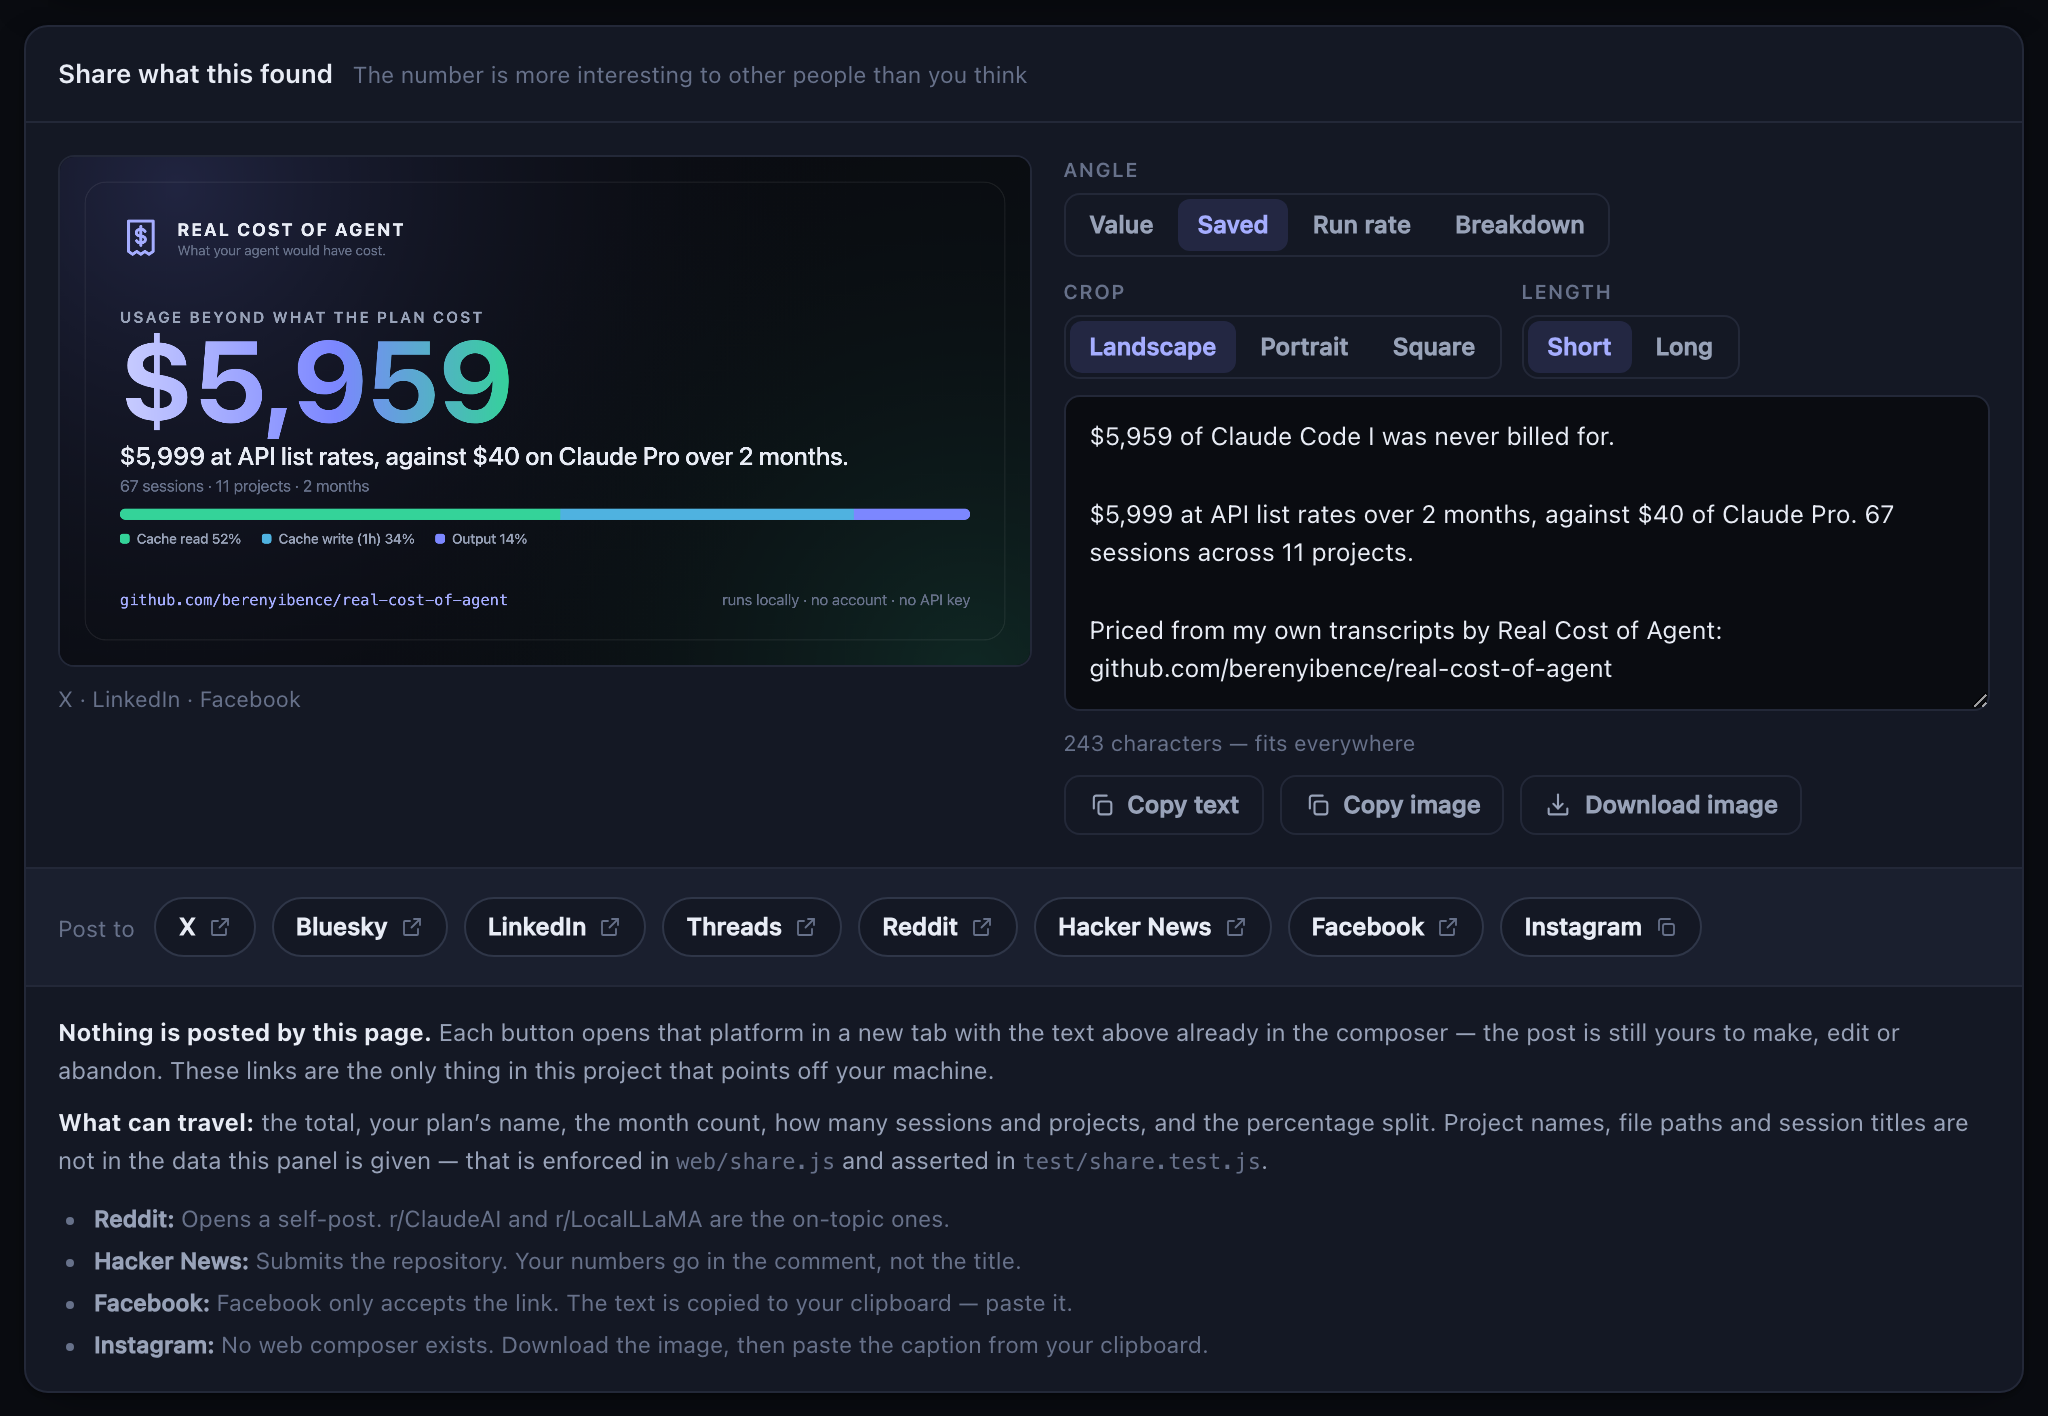
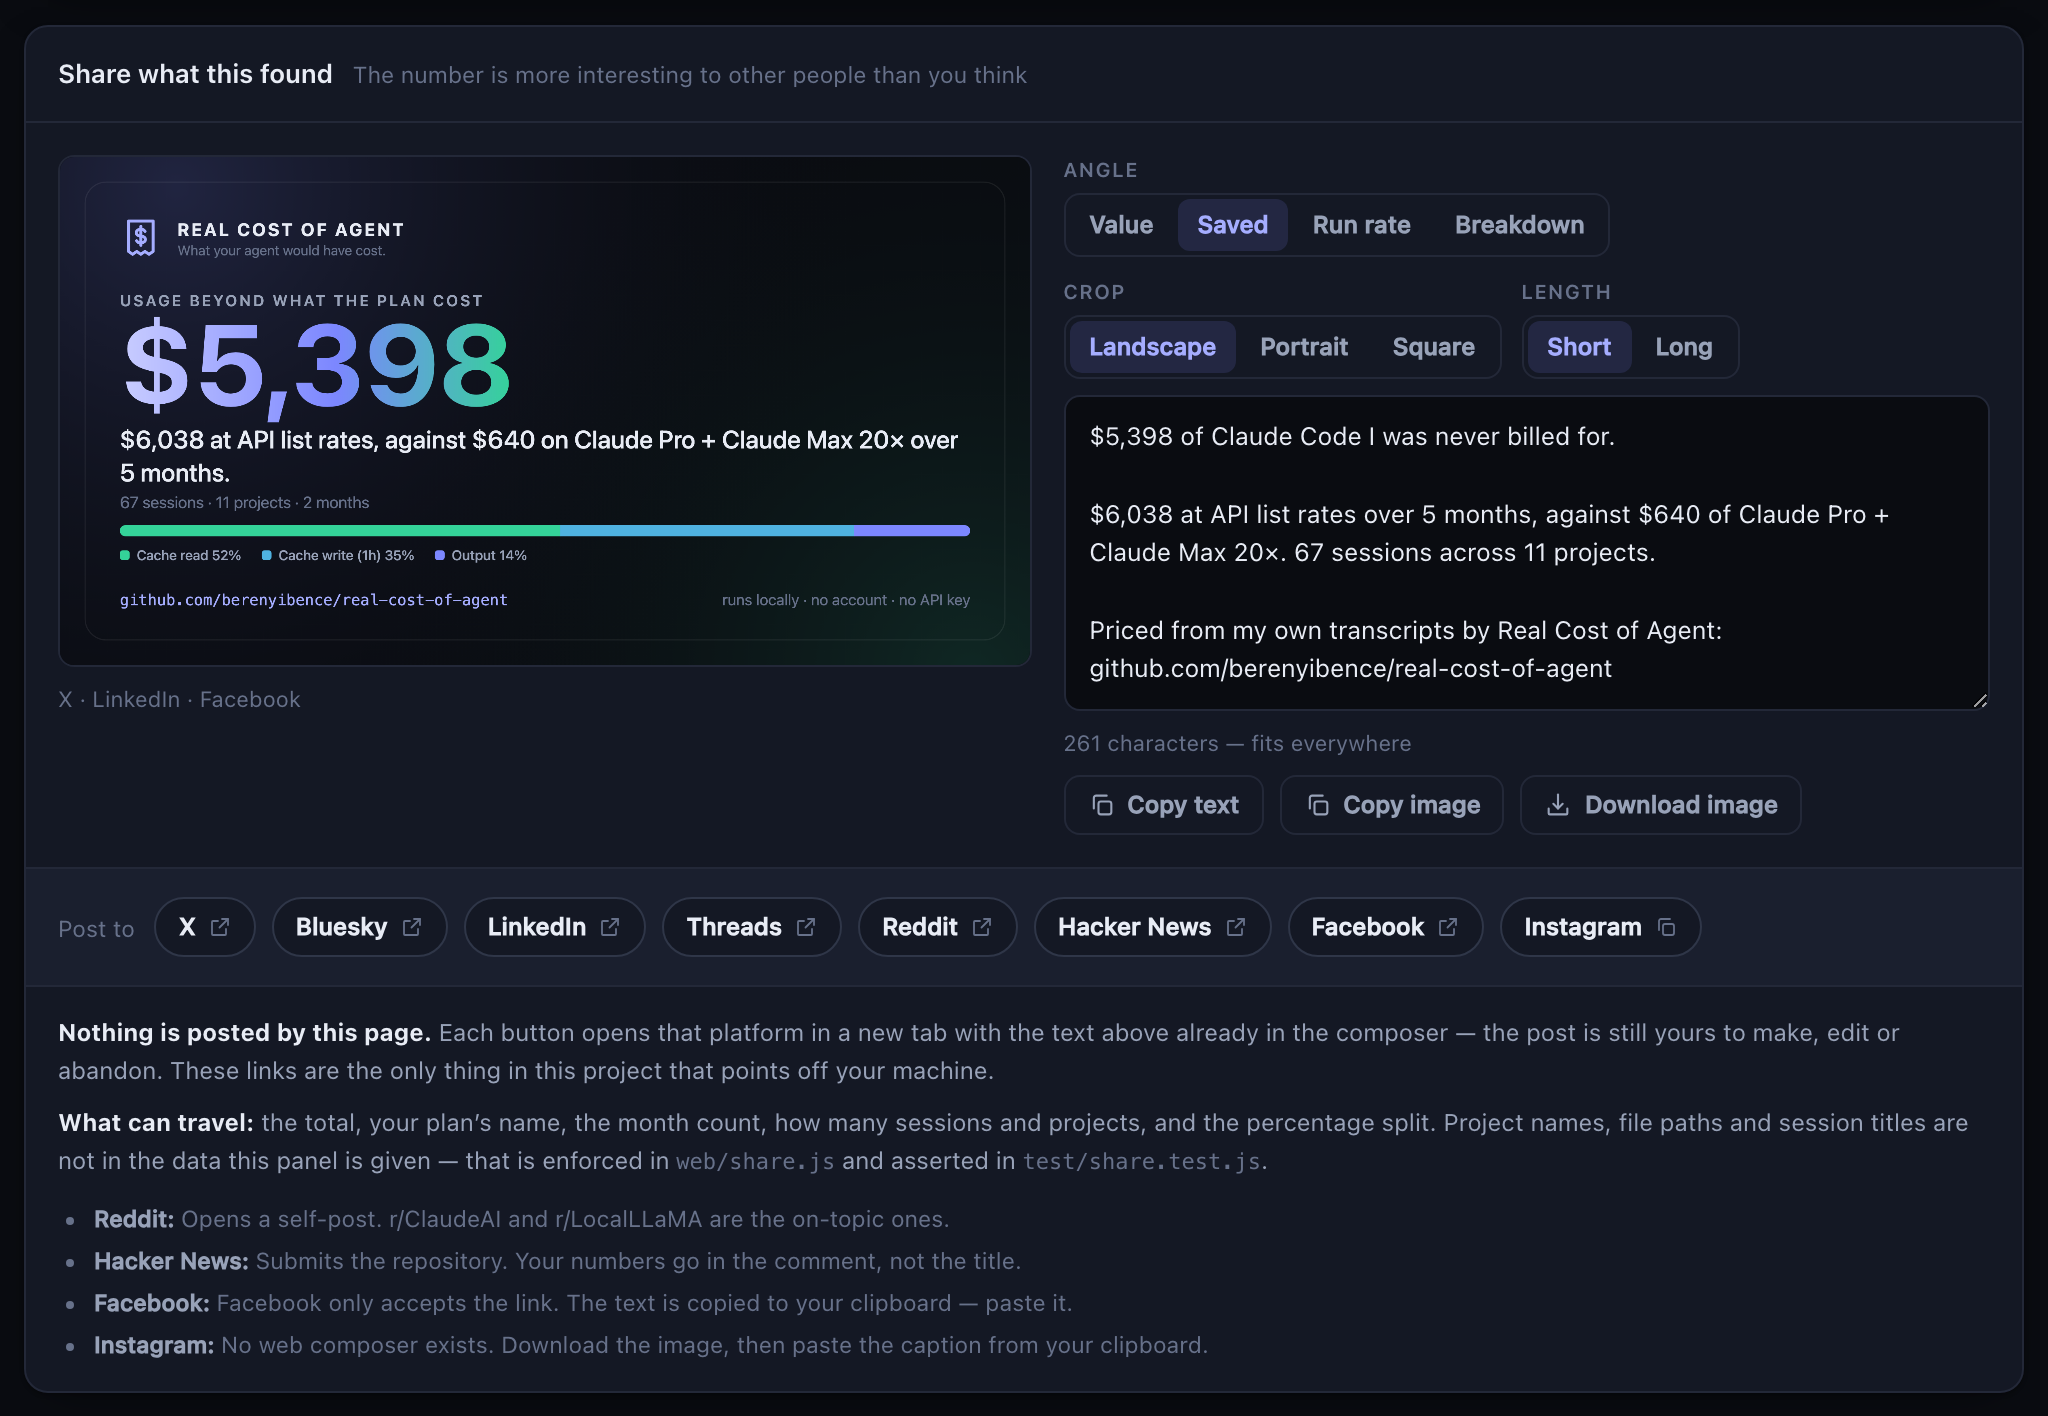
Document the plan history, and re-shoot the panel
README gains the field-by-field table for the editor and says plainly when the
months box matters: the app sees one machine's transcripts, so an incomplete
history is the normal case rather than the edge one.

Screenshots retaken against a two-period plan, which shows both halves of the
feature at once — a row letting the transcripts decide its length next to one
that states its own.

diff --git a/CHANGELOG.md b/CHANGELOG.md
@@ -2,6 +2,40 @@
 
 Notable changes, newest first. Dates are the day the change landed on `main`.
 
+## 0.4.0 — 2026-08-10
+
+The plan stopped being a tier and became a history.
+
+### Added
+
+- **A months override per period.** Leave it empty and the transcripts decide the length, exactly as
+  before. Type a number and it wins — which is the answer as soon as the history is incomplete, and
+  it usually is: the app can only see the transcripts on _this_ machine, so a reinstall, a second
+  laptop or a cleaned-out `~/.claude` all make the detected span shorter than what was actually paid
+  for.
+- **As many plan periods as the history needs.** Two months of Pro then three of Max 20× is $640
+  over five months, and no single tier price says so. Each row carries its own tier, price override,
+  seat count and length; rows can be added and removed, and one is always kept so the editor is never
+  empty. `compareBilling` reports every period priced, their total, and a `planLabel` naming each
+  distinct tier — "Claude Pro + Claude Max 20×" rather than whichever one happened to be first.
+- **`spanMismatch`.** When the declared plan covers a different stretch of time from the transcripts,
+  the page says so. It is usually the point of the override rather than a mistake, but the two sides
+  of the comparison are then measuring different spans and a reader should not have to infer that
+  from the numbers.
+
+### Changed
+
+- The stored config is now `{ periods: [...] }`. A pre-0.4 file is read as a single period rather
+  than discarded — losing it would silently reset the plan to a default that is a plausible plan
+  rather than a blank, and the page would go on showing a confident comparison against a subscription
+  nobody is on.
+- `POST /api/billing` takes `periods` to replace the list. The flat `planId` / `monthlyOverride` /
+  `seats` fields still edit the first period, so anything written against the old endpoint keeps
+  working.
+- The share card names every tier in the history, counts the declared months rather than the
+  transcript span for the plan clause, and says "on average" when quoting a monthly price blended
+  across periods — a figure that is on nobody's invoice should not be presented as one.
+
 ## 0.3.0 — 2026-08-09
 
 The billing panel stopped claiming something it could not know, and the share card learned to argue

diff --git a/README.md b/README.md
@@ -45,11 +45,27 @@ transcripts carry token counts and a `service_tier`; no field anywhere names a d
 invoice. So both figures are computed, and the page says so next to them rather than in a footnote:
 
 - **The left-hand number** is your recorded tokens at published list rates.
-- **The middle number** is the plan price _you_ entered, times the months your transcripts span. Your
-  tier is not on disk anywhere and published prices change, so it is editable rather than asserted.
+- **The middle number** is what _you_ say you pay. Your tier is not on disk anywhere and published
+  prices change, so it is editable rather than asserted.
 - **Auth mode is detected**, from the beta set Claude Code records in local telemetry. That tells you
   which of the two figures is the hypothetical one. It does not tell you what you were billed, and
   the page no longer pretends otherwise.
+
+**Your plan is a history, not a tier.** Most people have not been on one plan for the whole period.
+Add a row per tier — two months of Pro then three of Max is $640, and no single tier price says so:
+
+| Field      | Meaning                                                                              |
+| ---------- | ------------------------------------------------------------------------------------ |
+| **Tier**   | The plan for that stretch. Add or remove rows; one row is always kept.                |
+| **$/mo**   | Override the list price — a grandfathered rate, a discount, a currency that is not USD |
+| **seats**  | For per-seat plans                                                                     |
+| **months** | How long you were on it. **Leave it empty and the transcripts decide.**                 |
+
+The months box is the one that matters most once your history is incomplete. The app can only see the
+transcripts on _this_ machine, so a reinstall, a second laptop, or a `~/.claude` you have cleaned out
+all make the detected span shorter than what you actually paid for. Type the real number and the
+comparison is right again. When the two disagree, the page says so rather than quietly dividing one
+by the other.
 
 **The verdict can go against the plan.** When your usage does not justify what you pay, the panel
 says so and points at metered API billing — same voice, same size, same prominence as when it goes

diff --git a/CONTRIBUTING.md b/CONTRIBUTING.md
@@ -116,6 +116,14 @@ build step — the install-free, single-`node`-command property is the point of 
 **A new plan.** Add it to `PLANS` in `server/billing.js`. `test/billing.test.js` prices every plan at
 several seat counts, so a malformed entry fails immediately.
 
+**Anything about what the user pays.** The config is `{ periods: [...] }` — a plan _history_, not a
+tier, because two months of Pro then three of Max is one cost that no single tier price describes.
+Each period carries `planId`, `monthlyOverride`, `seats` and `months`. `months: null` means "the span
+the transcripts show", and keeping that distinct from a value that failed to parse is the whole
+no-override case. Sanitising always leaves at least one period, so the editor is never empty, and the
+pre-0.4 flat shape is read as a single period rather than dropped — a config silently reset to the
+default is a config showing a confident comparison against a subscription nobody is on.
+
 **A new cut of the data.** Add the bucket in `spendBreakdown` (`server/spend.js`), then a `CUTS`
 entry and a renderer in `web/app.js`. Add the new bucket to the loop in `test/spend.test.js` that
 asserts everything sums to the total.

diff --git a/CLAUDE.md b/CLAUDE.md
@@ -90,6 +90,13 @@ superseded entries `legacy: true` rather than deleting them — old sessions sti
 **A new plan.** Add it to `PLANS` in `server/billing.js`. `test/billing.test.js` prices every plan at
 several seat counts, so a malformed entry fails immediately.
 
+**Anything about what the user pays.** The config is `{ periods: [...] }` — a plan *history*, not a
+tier, because two months of Pro then three of Max is one cost that no single tier price describes.
+Each period carries `planId`, `monthlyOverride`, `seats` and `months`, and `months: null` means "the
+span the transcripts show". Keep that null distinct from a value that failed to parse: it is the
+whole no-override case. One period always survives sanitising, so the editor is never empty, and the
+pre-0.4 flat shape is read as a single period rather than dropped.
+
 **A new cut of the data.** Add the bucket in `spendBreakdown` (`server/spend.js`), then a `CUTS`
 entry and a renderer in `web/app.js`. The new bucket must sum to `total` — add it to the loop in
 `test/spend.test.js` that asserts exactly that.
